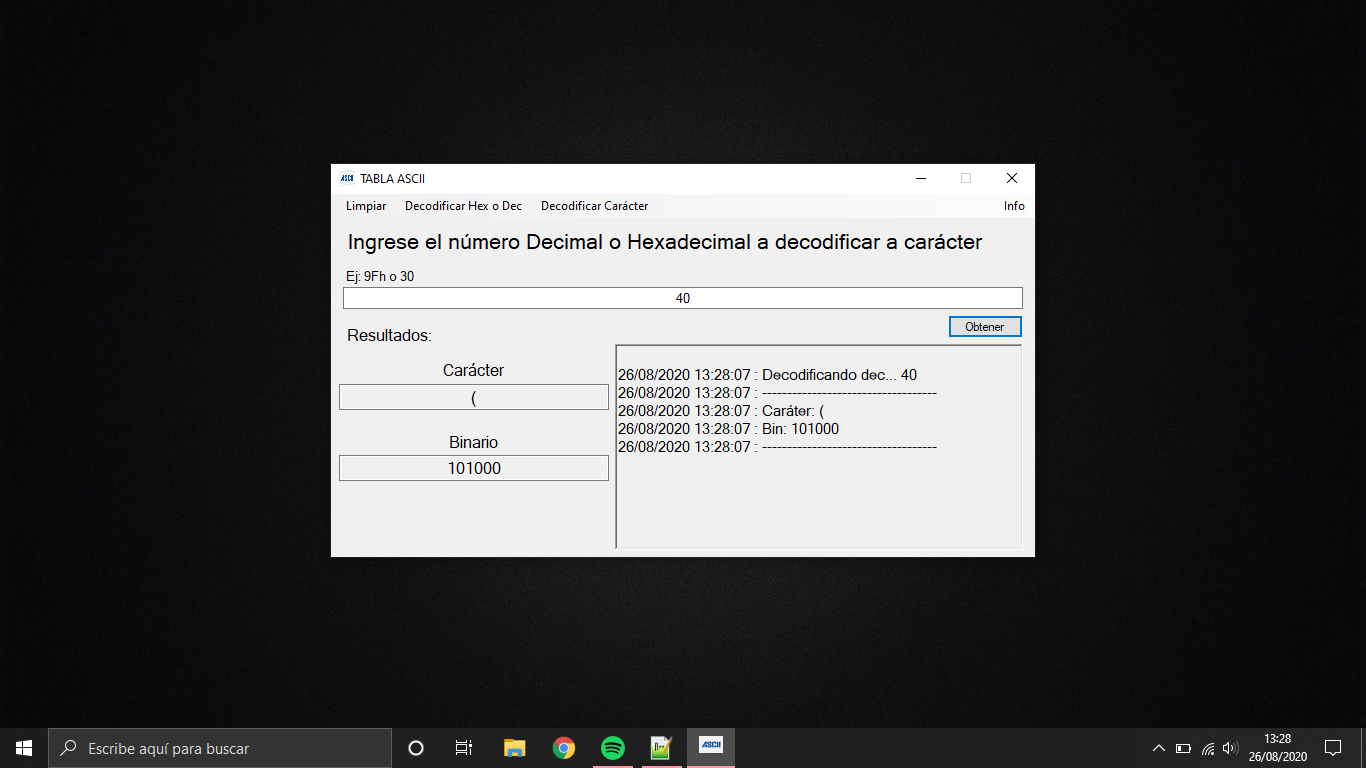
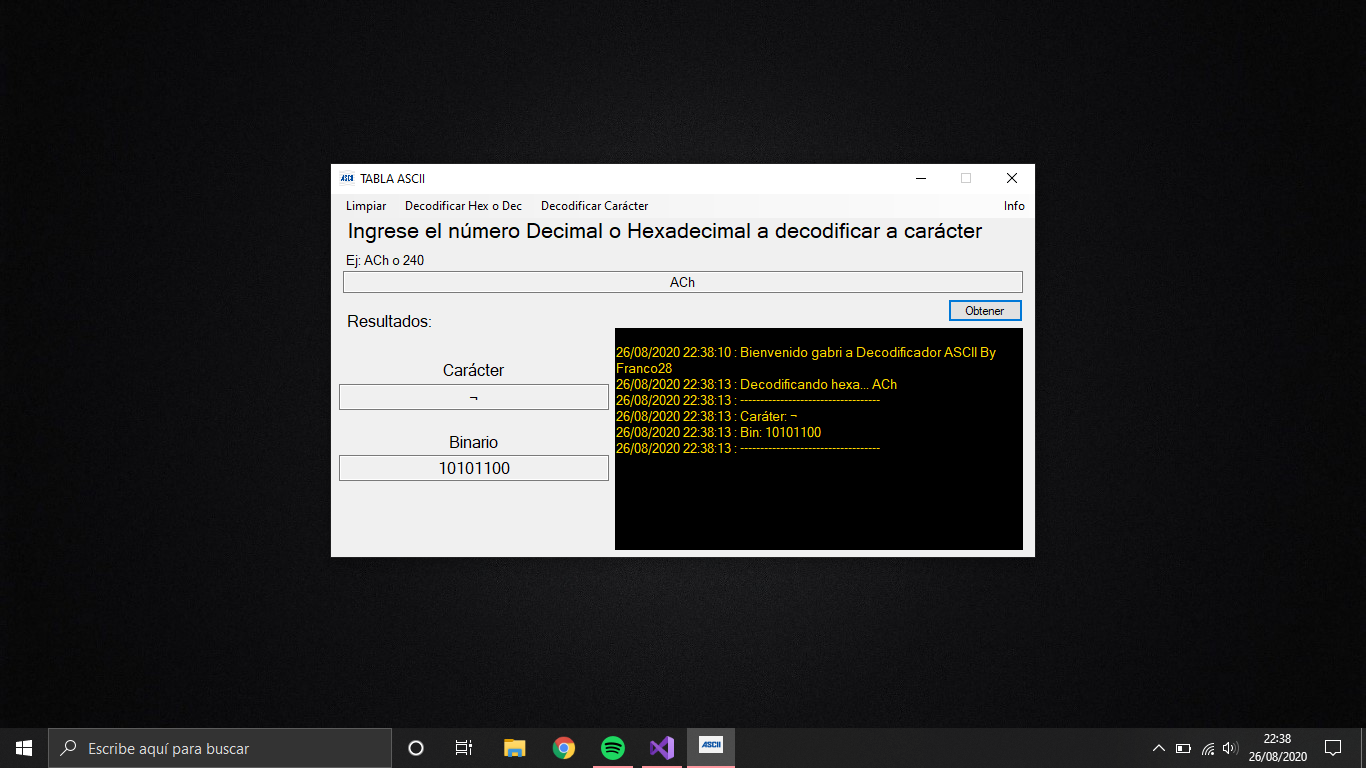
fixes

diff --git a/Main_Form.cs b/Main_Form.cs
@@ -1,6 +1,7 @@
 
 using System;
 using System.Drawing;
+using System.Linq;
 using System.Text;
 using System.Threading.Tasks;
 using System.Windows.Forms;
@@ -28,8 +29,6 @@ namespace asciiApp
         private async void buttonObtenerASCII_Click(object sender, EventArgs e)
         {
             string s = textBoxDecodificador.Text;
-            byte[] hexaenbytes = Encoding.Default.GetBytes(s);
-            var hexString = BitConverter.ToString(hexaenbytes);
             if (s.Equals(""))
             {
                 cAppend("Ingrese algún carácter");
@@ -40,21 +39,36 @@ namespace asciiApp
                 cAppend("Decodificando carácter ASCII... " + s);
                 await Task.Run(() =>
                 {
-                    cAppend("-----------------------------------");
                     foreach (char c in s)
                     {
-                        cAppend("Dec: " + Convert.ToInt32(c).ToString());
-                        labelResuDecimal.Text = Convert.ToInt32(c).ToString();
-                        hexString = hexString.Replace("-", "");
-                        labelResuHexadecimal.Text = hexString.ToString() + "h";
+                        cAppend("-----------------------------------");
+                        byte[] hexaenbytes = Encoding.Default.GetBytes(s);
+                        var hexString = BitConverter.ToString(hexaenbytes);
+                        int decValue = Convert.ToInt32(hexString, 16);
+                        string binary = Convert.ToString(decValue, 2);
+                        cAppend("Dec: " + decValue.ToString());
+                        labelResuDecimal.Text = decValue.ToString();
                         cAppend("Hexa: " + hexString.ToString() + "h");
-                        string binary = Convert.ToString(c, 2);
-                        labelResuBinario.Text = binary;
+                        labelResuHexadecimal.Text = hexString.ToString() + "h";
                         cAppend("Bin: " + binary);
+                        labelResuBinario.Text = binary;
+                        cAppend("-----------------------------------");
                     }
                 });
-                cAppend("-----------------------------------");
             }
+        }
+
+        public string Hex2Ascii(string hexString)
+        {
+            StringBuilder sb = new StringBuilder();
+            for (int i = 0; i < hexString.Length; i += 2)
+            {
+                string hs = hexString.Substring(i, 2);
+                sb.Append(Convert.ToString(Convert.ToChar(Int32.Parse(hs, System.Globalization.NumberStyles.HexNumber))));
+                cAppend("Caráter: " + sb.ToString());
+                labelResuDecimal.Text = sb.ToString();
+            }
+            return sb.ToString();
         }
 
         private async void buttonObtenerChar_Click(object sender, EventArgs e)
@@ -66,29 +80,28 @@ namespace asciiApp
                 MessageBox.Show("Ingrese algún número Hex o Dec", @"DECOFICADOR ASCII", MessageBoxButtons.OK, MessageBoxIcon.Information);
             }
             else
-            {          
+            {
                 if (s.EndsWith("h"))
                 {
                     cAppend("Decodificando hexa... " + s);
                     await Task.Run(() =>
-                    {
+                    {                        
                         cAppend("-----------------------------------");
                         string re = s.Replace("h", "").Trim();
                         int decValue = Convert.ToInt32(re, 16);
                         char c = (char)decValue;
-                        cAppend("Dec: " + c.ToString());
-                        labelResuDecimal.Text = c.ToString();
+                        Hex2Ascii(re);
                         string binary = Convert.ToString(c, 2);
                         cAppend("Bin: " + binary);
                         labelResuBinario.Text = binary;
+                        cAppend("-----------------------------------");
                     });
-                    cAppend("-----------------------------------");
                     return;
                 }
 
                 string input = s;
                 int value;
-                cAppend("Decodificando dec... " + input); 
+                cAppend("Decodificando dec... " + input);
                 await Task.Run(() =>
                 {
                     if (Int32.TryParse(input, out value))
@@ -96,7 +109,7 @@ namespace asciiApp
                         if (value >= 0 && value <= 255)
                         {
                             cAppend("-----------------------------------");
-                            char c = (char)value;
+                            char c = Convert.ToChar(value);
                             cAppend("Caráter: " + c.ToString());
                             labelResuDecimal.Text = c.ToString();
                             string binary = Convert.ToString(c, 2);
@@ -121,7 +134,7 @@ namespace asciiApp
             labelResuBinario.Text = "...";
             textBoxDecodificador.Text = "";
 
-            labelEj.Text = "Ej: 9Fh o 30";
+            labelEj.Text = "Ej: ACh o 240";
             labelTitulo.Text = "Ingrese el número Decimal o Hexadecimal a decodificar a carácter";
             labelDecimal.Text = "Carácter";
             labelResuDecimal.Text = "...";
@@ -129,7 +142,7 @@ namespace asciiApp
             labelResuHexadecimal.Hide();
             buttonObtenerASCII.Hide();
             buttonObtenerChar.Show();
-            buttonObtenerChar.Location = new Point(617, 121);
+            buttonObtenerChar.Location = new Point(617, 105);
             labelBinTitle.Location = new Point(8, 238);
             labelResuBinario.Location = new Point(8, 261);
             textBoxDecodificador.MaxLength = 6;
@@ -150,7 +163,7 @@ namespace asciiApp
             labelResuHexadecimal.Show();
             buttonObtenerASCII.Show();
             buttonObtenerChar.Hide();
-            buttonObtenerASCII.Location = new Point(617, 121);
+            buttonObtenerASCII.Location = new Point(617, 105);
             labelBinTitle.Location = new Point(8, 307);
             labelResuBinario.Location = new Point(8, 330);
             textBoxDecodificador.MaxLength = 4;
@@ -173,7 +186,8 @@ namespace asciiApp
 
         private void Main_Form_Load(object sender, EventArgs e)
         {
-
+            string userName = Environment.UserName;
+            cAppend("Bienvenido " +  userName + " a Decodificador ASCII By Franco28");
         }
     }
 }

diff --git a/Main_Form.Designer.cs b/Main_Form.Designer.cs
@@ -53,7 +53,7 @@
             // buttonObtenerASCII
             // 
             this.buttonObtenerASCII.Cursor = System.Windows.Forms.Cursors.Hand;
-            this.buttonObtenerASCII.Location = new System.Drawing.Point(617, 121);
+            this.buttonObtenerASCII.Location = new System.Drawing.Point(617, 105);
             this.buttonObtenerASCII.Name = "buttonObtenerASCII";
             this.buttonObtenerASCII.Size = new System.Drawing.Size(75, 23);
             this.buttonObtenerASCII.TabIndex = 0;
@@ -65,7 +65,7 @@
             // 
             this.labelTitulo.AutoSize = true;
             this.labelTitulo.Font = new System.Drawing.Font("Microsoft Sans Serif", 15.75F, System.Drawing.FontStyle.Regular, System.Drawing.GraphicsUnit.Point, ((byte)(0)));
-            this.labelTitulo.Location = new System.Drawing.Point(12, 35);
+            this.labelTitulo.Location = new System.Drawing.Point(12, 24);
             this.labelTitulo.Name = "labelTitulo";
             this.labelTitulo.Size = new System.Drawing.Size(319, 25);
             this.labelTitulo.TabIndex = 1;
@@ -73,9 +73,11 @@
             // 
             // textBoxDecodificador
             // 
+            this.textBoxDecodificador.BackColor = System.Drawing.SystemColors.Control;
             this.textBoxDecodificador.Font = new System.Drawing.Font("Microsoft Sans Serif", 9.75F, System.Drawing.FontStyle.Regular, System.Drawing.GraphicsUnit.Point, ((byte)(0)));
-            this.textBoxDecodificador.Location = new System.Drawing.Point(12, 93);
-            this.textBoxDecodificador.MaxLength = 4;
+            this.textBoxDecodificador.ForeColor = System.Drawing.Color.Black;
+            this.textBoxDecodificador.Location = new System.Drawing.Point(12, 77);
+            this.textBoxDecodificador.MaxLength = 1;
             this.textBoxDecodificador.Name = "textBoxDecodificador";
             this.textBoxDecodificador.Size = new System.Drawing.Size(680, 22);
             this.textBoxDecodificador.TabIndex = 2;
@@ -105,7 +107,7 @@
             // 
             this.labelResultadoASCII.AutoSize = true;
             this.labelResultadoASCII.Font = new System.Drawing.Font("Microsoft Sans Serif", 12F, System.Drawing.FontStyle.Regular, System.Drawing.GraphicsUnit.Point, ((byte)(0)));
-            this.labelResultadoASCII.Location = new System.Drawing.Point(12, 131);
+            this.labelResultadoASCII.Location = new System.Drawing.Point(12, 117);
             this.labelResultadoASCII.Name = "labelResultadoASCII";
             this.labelResultadoASCII.Size = new System.Drawing.Size(94, 20);
             this.labelResultadoASCII.TabIndex = 7;
@@ -156,7 +158,7 @@
             // buttonObtenerChar
             // 
             this.buttonObtenerChar.Cursor = System.Windows.Forms.Cursors.Hand;
-            this.buttonObtenerChar.Location = new System.Drawing.Point(536, 121);
+            this.buttonObtenerChar.Location = new System.Drawing.Point(536, 105);
             this.buttonObtenerChar.Name = "buttonObtenerChar";
             this.buttonObtenerChar.Size = new System.Drawing.Size(75, 23);
             this.buttonObtenerChar.TabIndex = 9;
@@ -168,7 +170,7 @@
             // 
             this.labelEj.AutoSize = true;
             this.labelEj.Font = new System.Drawing.Font("Microsoft Sans Serif", 9.75F, System.Drawing.FontStyle.Regular, System.Drawing.GraphicsUnit.Point, ((byte)(0)));
-            this.labelEj.Location = new System.Drawing.Point(12, 74);
+            this.labelEj.Location = new System.Drawing.Point(12, 58);
             this.labelEj.Name = "labelEj";
             this.labelEj.Size = new System.Drawing.Size(40, 16);
             this.labelEj.TabIndex = 10;
@@ -219,11 +221,14 @@
             // 
             // console
             // 
-            this.console.Font = new System.Drawing.Font("Microsoft Sans Serif", 11.25F, System.Drawing.FontStyle.Regular, System.Drawing.GraphicsUnit.Point, ((byte)(0)));
-            this.console.Location = new System.Drawing.Point(284, 150);
+            this.console.BackColor = System.Drawing.Color.Black;
+            this.console.BorderStyle = System.Windows.Forms.BorderStyle.None;
+            this.console.Font = new System.Drawing.Font("Microsoft Sans Serif", 9.75F, System.Drawing.FontStyle.Regular, System.Drawing.GraphicsUnit.Point, ((byte)(0)));
+            this.console.ForeColor = System.Drawing.Color.Gold;
+            this.console.Location = new System.Drawing.Point(284, 134);
             this.console.Name = "console";
             this.console.ReadOnly = true;
-            this.console.Size = new System.Drawing.Size(408, 206);
+            this.console.Size = new System.Drawing.Size(408, 222);
             this.console.TabIndex = 18;
             this.console.Text = "";
             // 
